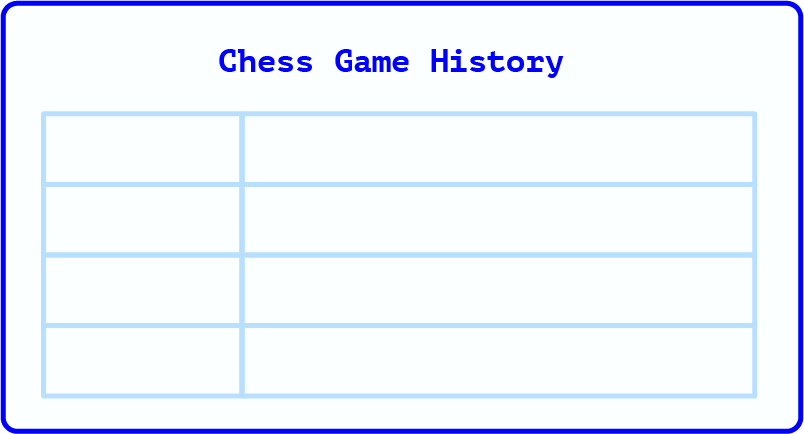
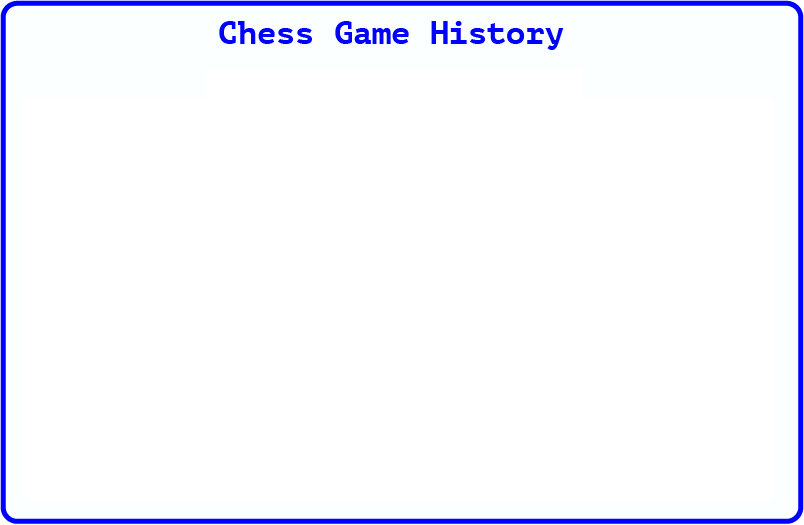
adding winning screen visuals

diff --git a/menu.py b/menu.py
@@ -13,177 +13,195 @@ def set_background():
 
 
 game_logo = ImageOnScreen(
-    image=pygame.image.load("assets/images/chess_battle_logo_MAIN.png").convert_alpha(), pos=(500, 150))
+    image=pygame.image.load("assets/images/chess_battle_logo_MAIN.png"), pos=(500, 150))
 
-if __name__ == '__main__':
-    pygame.init()
-
-    settings = Settings()
-    pygame.display.set_caption("Chess Battle")
-    set_background()
+winning_bubble = ImageOnScreen(
+    image=pygame.image.load("assets/images/chess_bot_and_speechbubble.png"), pos=(500, 500))
 
 # Winning screen to be displayed at the end of game with options to go to main menu, play a new game/
     # or go to games history
-    def winning_screen():
-        while True:
-            set_background()
+def winning_screen(winner):
+    while True:
+        set_background()
 
-            menu_mouse_pos = pygame.mouse.get_pos()
+        menu_mouse_pos = pygame.mouse.get_pos()
 
-            new_game_button = Button(image=pygame.image.load("assets/images/blank_button_long.png").convert_alpha(),
-                                     pos=(500, 350), text_input="New Game", font=settings.get_font(),
-                                     base_color="blue",
-                                     hovering_color='#7BFCFC', settings=settings)
-            history_button = Button(image=pygame.image.load("assets/images/blank_button_long.png").convert_alpha(),
-                                    pos=(500, 500), text_input="Games History", font=settings.get_font(),
-                                    base_color="blue", hovering_color='#7BFCFC', settings=settings)
-            quit_button = Button(image=pygame.image.load("assets/images/blank_button_long.png").convert_alpha(),
-                                 pos=(500, 650), text_input="Quit", font=settings.get_font(), base_color="blue",
+        new_game_button = Button(image=pygame.image.load("assets/images/very_short_button.png").convert_alpha(),
+                                 pos=(200, 800), text_input="Replay", font=settings.get_font(),
+                                 base_color="blue",
                                  hovering_color='#7BFCFC', settings=settings)
-            game_logo.update(settings.win)
+        main_menu_button = Button(image=pygame.image.load("assets/images/very_short_button.png").convert_alpha(),
+                                pos=(500, 800), text_input="Menu", font=settings.get_font(),
+                                base_color="blue", hovering_color='#7BFCFC', settings=settings)
+        quit_button = Button(image=pygame.image.load("assets/images/very_short_button.png").convert_alpha(),
+                             pos=(800, 800), text_input="Quit", font=settings.get_font(), base_color="blue",
+                             hovering_color='#7BFCFC', settings=settings)
+        game_logo.update(settings.win)
 
-            for button in [new_game_button, history_button, quit_button]:
-                button.change_color(menu_mouse_pos)
-                button.update(settings.win)
+        winning_bubble.update(settings.win)
 
-            for event in pygame.event.get():
-                if event.type == pygame.QUIT:
+        font = pygame.font.Font('assets/fonts/JetBrainsMono-Bold.ttf', 40)
+        winner_font = font.render(winner + " Wins!", True, "blue")
+        winner_rect = winner_font.get_rect(center=(680, 470))
+        settings.win.blit(winner_font, winner_rect)
+
+        for button in [new_game_button, main_menu_button, quit_button]:
+            button.change_color(menu_mouse_pos)
+            button.update(settings.win)
+
+        for event in pygame.event.get():
+            if event.type == pygame.QUIT:
+                pygame.quit()
+                sys.exit()
+            if event.type == pygame.MOUSEBUTTONDOWN:
+                if new_game_button.check_for_input(menu_mouse_pos):
+                    game.play_game()
                     pygame.quit()
                     sys.exit()
-                if event.type == pygame.MOUSEBUTTONDOWN:
-                    if new_game_button.check_for_input(menu_mouse_pos):
-                        game.play_game()
-                        pygame.quit()
-                        sys.exit()
-                    if history_button.check_for_input(menu_mouse_pos):
-                        history()
-                    if quit_button.check_for_input(menu_mouse_pos):
-                        pygame.quit()
-                        sys.exit()
-
-            scaled_win = pygame.transform.smoothscale(settings.win, settings.screen_.get_size())
-            settings.screen_.blit(scaled_win, (0, 0))
-            pygame.display.flip()
-
-
-    def history():
-        while True:
-            set_background()
-
-            history_mouse_pos = pygame.mouse.get_pos()
-
-            game_logo.update(settings.win)
-
-            history_back = Button(image=pygame.image.load("assets/images/very_short_button.png").convert_alpha(),
-                                  pos=(500, 825), text_input="BACK", font=settings.get_font(),
-                                  base_color="blue", hovering_color="#7BFCFC", settings=settings)
-
-            history_back.change_color(history_mouse_pos)
-            history_back.update(settings.win)
-
-            history_box_image = ImageOnScreen(
-                image=pygame.image.load("assets/images/chess_history_table.png").convert_alpha(), pos=(500, 525))
-            history_box_image.update(settings.win)
-
-            # Load game history data from moves.json file
-            with open("moves.json", "r") as json_file:
-                game_history_data = json.load(json_file)
-
-            # Initial font and position settings for json file entries
-            font = pygame.font.Font('assets/fonts/JetBrainsMono-Bold.ttf', 20)
-            y_position = 455  # y axis
-
-            # Display only the 4 most recent games in on the Games history screen
-            num_entries_to_display = 4
-            start_index = max(len(game_history_data) - num_entries_to_display, 0)
-
-            entries = []
-            i = 0
-            for key, value in game_history_data.items():
-                if i >= start_index:
-                    entries.append((key, value))
-                i += 1
-
-            entries.reverse()
-            for entry in entries:
-                # draw timestamp
-                history_text = font.render(entry[0], True, "blue")
-                history_rect = history_text.get_rect(center=(250, y_position))
-                settings.win.blit(history_text, history_rect)
-
-                # draw white moves
-                white_string = ""
-                for move in entry[1]["white"]:
-                    pass
-
-                white_moves = font.render(white_string, True, "blue")
-                white_rect = white_moves.get_rect(center=(350, y_position))
-                settings.win.blit(white_moves, white_rect)
-
-                # draw black moves
-                black_string = ""
-                for move in entry[1]["black"]:
-                    pass
-
-                black_moves = font.render(black_string, True, "blue")
-                black_rect = black_moves.get_rect(center=(350, y_position))
-                settings.win.blit(black_moves, black_rect)
-
-                y_position += 70
-
-            for event in pygame.event.get():
-                if event.type == pygame.QUIT:
+                if main_menu_button.check_for_input(menu_mouse_pos):
+                    main_menu()
+                if quit_button.check_for_input(menu_mouse_pos):
                     pygame.quit()
                     sys.exit()
-                if event.type == pygame.MOUSEBUTTONDOWN:
-                    if history_back.check_for_input(history_mouse_pos):
-                        settings.win.fill('black')
-                        main_menu()
 
-            scaled_win = pygame.transform.smoothscale(settings.win, settings.screen_.get_size())
-            settings.screen_.blit(scaled_win, (0, 0))
-            pygame.display.flip()
+        scaled_win = pygame.transform.smoothscale(settings.win, settings.screen_.get_size())
+        settings.screen_.blit(scaled_win, (0, 0))
+        pygame.display.flip()
 
 
-    def main_menu():
-        while True:
-            set_background()
+def history():
+    while True:
+        set_background()
 
-            menu_mouse_pos = pygame.mouse.get_pos()
+        history_mouse_pos = pygame.mouse.get_pos()
 
-            play_button = Button(image=pygame.image.load("assets/images/blank_button_long.png").convert_alpha(),
-                                 pos=(500, 350), text_input="Play Chess", font=settings.get_font(), base_color="blue",
-                                 hovering_color='#7BFCFC', settings=settings)
-            history_button = Button(image=pygame.image.load("assets/images/blank_button_long.png").convert_alpha(),
-                                    pos=(500, 500), text_input="Games History", font=settings.get_font(),
-                                    base_color="blue", hovering_color='#7BFCFC', settings=settings)
-            quit_button = Button(image=pygame.image.load("assets/images/blank_button_long.png").convert_alpha(),
-                                 pos=(500, 650), text_input="Quit", font=settings.get_font(), base_color="blue",
-                                 hovering_color='#7BFCFC', settings=settings)
-            game_logo.update(settings.win)
+        # game_logo.update(settings.win)
 
-            for button in [play_button, history_button, quit_button]:
-                button.change_color(menu_mouse_pos)
-                button.update(settings.win)
+        history_back = Button(image=pygame.image.load("assets/images/very_short_button.png").convert_alpha(),
+                              pos=(500, 825), text_input="BACK", font=settings.get_font(),
+                              base_color="blue", hovering_color="#7BFCFC", settings=settings)
 
-            for event in pygame.event.get():
-                if event.type == pygame.QUIT:
+        history_back.change_color(history_mouse_pos)
+        history_back.update(settings.win)
+
+        history_box_image = ImageOnScreen(
+            image=pygame.image.load("assets/images/chess_history_table.png").convert_alpha(), pos=(500, 270))
+        history_box_image.update(settings.win)
+
+        history_box_image_empty = ImageOnScreen(
+            image=pygame.image.load("assets/images/chess_history_table_empty.png").convert_alpha(), pos=(500, 700))
+        history_box_image_empty.update(settings.win)
+
+        # Load game history data from moves.json file
+        with open("moves.json", "r") as json_file:
+            game_history_data = json.load(json_file)
+
+        # Initial font and position settings for json file entries
+        font = pygame.font.Font('assets/fonts/JetBrainsMono-Bold.ttf', 20)
+        y_position = 455  # y axis
+
+        # Display only the 4 most recent games in on the Games history screen
+        num_entries_to_display = 4
+        start_index = max(len(game_history_data) - num_entries_to_display, 0)
+
+        entries = []
+        buttons = []
+        i = 0
+        button_index = 0
+        for key, value in game_history_data.items():
+            if i >= start_index:
+                entries.append((key, value))
+                buttons.append(Button(image=pygame.image.load("assets/images/blank_button_very_long.png").convert_alpha(),
+                                  pos=(500, 120 + (button_index * 110)), text_input=key, font=settings.get_font(),
+                                  base_color="blue", hovering_color="#7BFCFC", settings=settings, internal_id=button_index))
+                button_index += 1
+            i += 1
+
+        for b in buttons:
+            b.update(settings.win)
+
+        entries.reverse()
+
+        # draw moves
+        if settings.history_being_shown > -1:
+            lines = []
+            move_string = ""
+            for m in entries[settings.history_being_shown][1]:
+                move_string += ">".join(m)
+                move_string += ","
+                if len(move_string) > 50:
+                    lines.append(move_string)
+                    move_string = ""
+            lines.append(move_string)
+
+            y_pos = 0
+            for line in lines:
+                moves = font.render(line, True, "blue")
+                moves_rect = moves.get_rect(center=(500, 575 + y_pos))
+                settings.win.blit(moves, moves_rect)
+                y_pos += 30
+
+        for event in pygame.event.get():
+            if event.type == pygame.QUIT:
+                pygame.quit()
+                sys.exit()
+            if event.type == pygame.MOUSEBUTTONDOWN:
+                if history_back.check_for_input(history_mouse_pos):
+                    settings.win.fill('black')
+                    main_menu()
+                for b in buttons:
+                    if b.check_for_input(history_mouse_pos):
+                        settings.history_being_shown = b.internal_id
+
+        scaled_win = pygame.transform.smoothscale(settings.win, settings.screen_.get_size())
+        settings.screen_.blit(scaled_win, (0, 0))
+        pygame.display.flip()
+
+
+def main_menu():
+    while True:
+        set_background()
+
+        menu_mouse_pos = pygame.mouse.get_pos()
+
+        play_button = Button(image=pygame.image.load("assets/images/blank_button_long.png").convert_alpha(),
+                             pos=(500, 350), text_input="Play Chess", font=settings.get_font(), base_color="blue",
+                             hovering_color='#7BFCFC', settings=settings)
+        history_button = Button(image=pygame.image.load("assets/images/blank_button_long.png").convert_alpha(),
+                                pos=(500, 500), text_input="Games History", font=settings.get_font(),
+                                base_color="blue", hovering_color='#7BFCFC', settings=settings)
+        quit_button = Button(image=pygame.image.load("assets/images/blank_button_long.png").convert_alpha(),
+                             pos=(500, 650), text_input="Quit", font=settings.get_font(), base_color="blue",
+                             hovering_color='#7BFCFC', settings=settings)
+        game_logo.update(settings.win)
+
+        for button in [play_button, history_button, quit_button]:
+            button.change_color(menu_mouse_pos)
+            button.update(settings.win)
+
+        for event in pygame.event.get():
+            if event.type == pygame.QUIT:
+                pygame.quit()
+                sys.exit()
+            if event.type == pygame.MOUSEBUTTONDOWN:
+                if play_button.check_for_input(menu_mouse_pos):
+                    game.play_game()
                     pygame.quit()
                     sys.exit()
-                if event.type == pygame.MOUSEBUTTONDOWN:
-                    if play_button.check_for_input(menu_mouse_pos):
-                        game.play_game()
-                        pygame.quit()
-                        sys.exit()
-                    if history_button.check_for_input(menu_mouse_pos):
-                        history()
-                    if quit_button.check_for_input(menu_mouse_pos):
-                        pygame.quit()
-                        sys.exit()
+                if history_button.check_for_input(menu_mouse_pos):
+                    history()
+                if quit_button.check_for_input(menu_mouse_pos):
+                    pygame.quit()
+                    sys.exit()
 
-            scaled_win = pygame.transform.smoothscale(settings.win, settings.screen_.get_size())
-            settings.screen_.blit(scaled_win, (0, 0))
-            pygame.display.flip()
+        scaled_win = pygame.transform.smoothscale(settings.win, settings.screen_.get_size())
+        settings.screen_.blit(scaled_win, (0, 0))
+        pygame.display.flip()
 
+pygame.init()
+settings = Settings()
+pygame.display.set_caption("Chess Battle")
+set_background()
 
+if __name__ == '__main__':
     main_menu()
